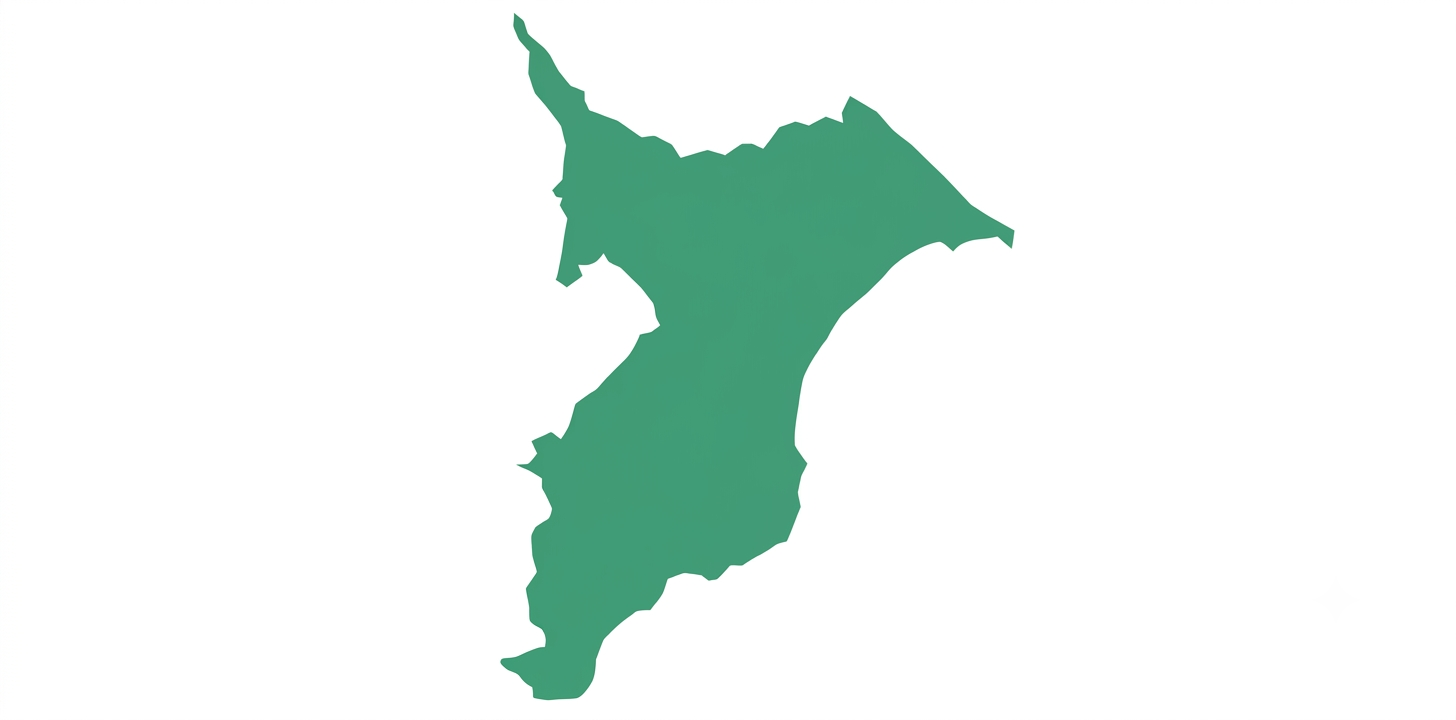
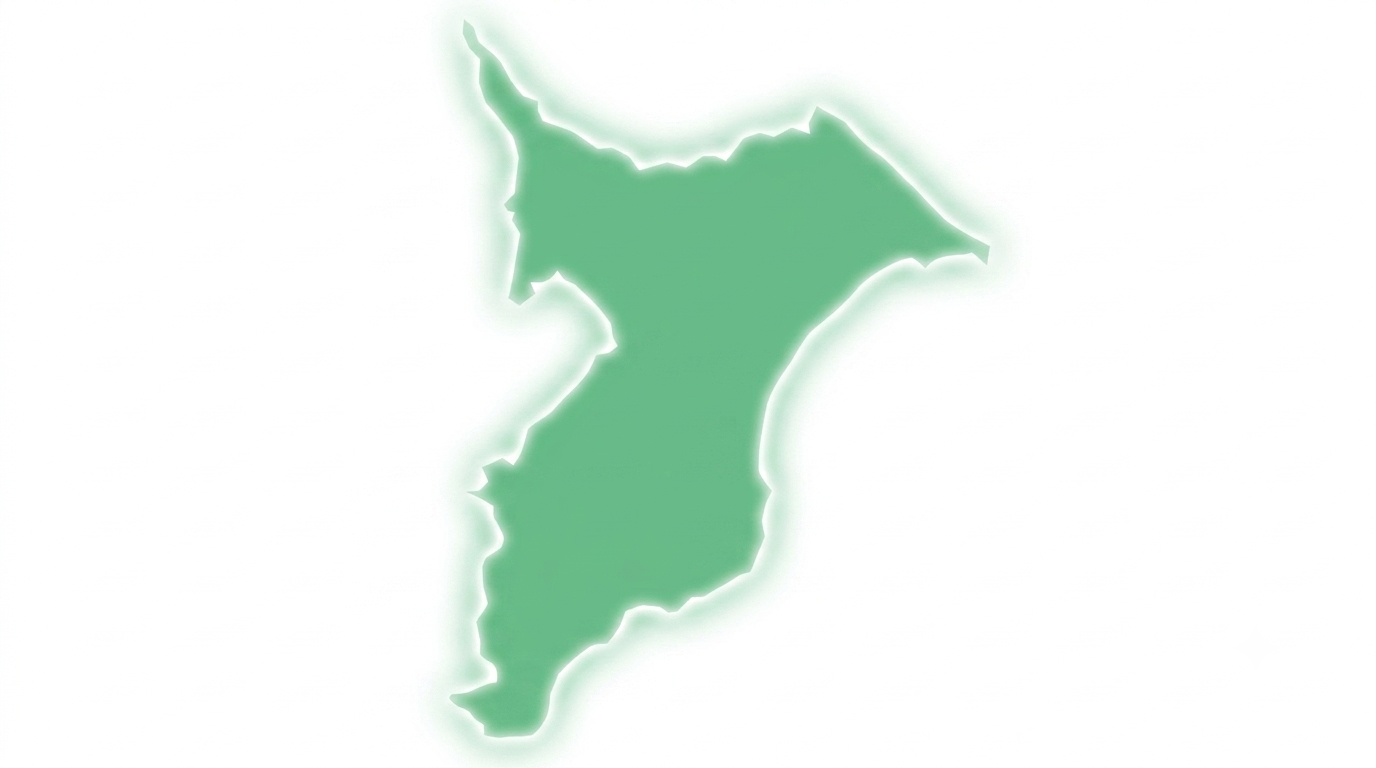
Add files via upload

Changed region(s): [[0.3125, 0.0306, 0.7188, 1.0]]

diff --git a/index.html b/index.html
@@ -61,7 +61,7 @@ html.snap footer{scroll-snap-align:end;}
 #sec-mitsumori{background:url('egao.jpg') center/cover no-repeat;}
 #sec-kaisha{background:url('syuugou.jpg') center/cover no-repeat;}
 #sec-jirei{background:#fff url('chiba.jpg') center/cover no-repeat;}
-#sec-kaisha{justify-content:flex-end;padding-top:130px;padding-bottom:28px;}
+#sec-kaisha{justify-content:flex-end;padding-top:130px;padding-bottom:85px;}
 #sec-kaisha .section-title{margin-top:0;}
 #sec-kaisha .section-sub{margin-bottom:14px;}
 #sec-kaisha .promise-row{margin:4px 0 14px;}
@@ -93,8 +93,8 @@ html.snap footer{scroll-snap-align:end;}
 .hero-overlay{display:none;}
 .hero-content{position:relative;z-index:2;padding:40px 20px 40px clamp(24px,7vw,110px);max-width:820px;}
 .hero-catch{
-  font-size:clamp(30px,5.2vw,54px);font-weight:700;letter-spacing:.06em;line-height:1.5;color:#2f8464;
-  text-shadow:0 1px 4px #fff,0 2px 8px #fff,0 0 16px #fff,0 0 30px rgba(255,255,255,.95),0 0 52px rgba(255,255,255,.85);
+  font-size:clamp(30px,5.2vw,54px);font-weight:700;letter-spacing:.06em;line-height:1.5;color:#fff;
+  text-shadow:0 1px 4px rgba(24,70,54,.95),0 2px 8px rgba(24,70,54,.9),0 0 16px rgba(24,70,54,.85),0 0 30px rgba(24,70,54,.7),0 0 52px rgba(24,70,54,.55);
 }
 .hero-lead{margin-top:18px;font-size:clamp(14px,1.8vw,17px);text-shadow:0 1px 4px rgba(24,70,54,.95),0 1px 8px rgba(24,70,54,.9),0 0 16px rgba(24,70,54,.85),0 0 28px rgba(24,70,54,.7);}
 .hero-badges{margin-top:26px;display:flex;gap:12px;justify-content:center;flex-wrap:wrap;}
@@ -200,7 +200,7 @@ html.snap footer{scroll-snap-align:end;}
 .reserve-submit:hover{background:var(--accent-dark);}
 
 /* ===== 施工事例 ===== */
-.count-banner{background:linear-gradient(135deg,var(--navy),var(--navy-light));border-radius:24px;color:#fff;text-align:center;padding:36px 20px;margin:24px 0 40px;box-shadow:var(--shadow);}
+.count-banner{background:linear-gradient(135deg,var(--navy),var(--navy-light));border-radius:24px;color:#fff;text-align:center;padding:36px 20px;margin:24px 0 40px;box-shadow:0 0 26px rgba(255,255,255,.9),0 0 50px rgba(255,255,255,.55),0 10px 30px rgba(47,132,100,.25);}
 .count-banner .num{font-size:52px;font-weight:800;letter-spacing:.02em;}
 .count-banner .num small{font-size:20px;font-weight:600;margin-left:4px;}
 .count-banner .cap{font-size:13px;opacity:.85;}
@@ -474,7 +474,6 @@ footer .f-aimitsu{display:inline-block;background:rgba(255,255,255,.12);border-r
           <svg viewBox="0 0 24 24"><path fill="#fff" d="M13.5 21v-7h2.4l.4-2.8h-2.8V9.4c0-.8.3-1.4 1.5-1.4h1.4V5.5c-.6-.1-1.4-.2-2.2-.2-2.2 0-3.7 1.3-3.7 3.8v2.1H8v2.8h2.5v7h3z"/></svg>
         </a>
       </div>
-      <button class="privacy-link" style="margin-bottom:0;" onclick="showPage('privacy')">プライバシーポリシー</button>
     </div>
   </section>
 </div>
@@ -691,7 +690,8 @@ footer .f-aimitsu{display:inline-block;background:rgba(255,255,255,.12);border-r
 
 <footer>
   <span class="f-aimitsu">📋 相見積もりOK|他社様のお見積もりと、じっくり比べてください。</span><br>
-  © 2026 ASAHI TOSO Co.,Ltd. 千葉県旭市あさひ台1-2-3|0120-XXX-XXX
+  © 2026 ASAHI TOSO Co.,Ltd. 千葉県旭市あさひ台1-2-3|0120-XXX-XXX<br>
+  <button class="privacy-link" style="margin:8px auto 0;" onclick="showPage('privacy')">プライバシーポリシー</button>
 </footer>
 
 <div class="toast" id="toast"></div>
@@ -722,17 +722,18 @@ function showPage(id){
   document.querySelector('.global-back').style.display = (id==='home') ? 'none' : '';
   window.scrollTo({top:0});
 }
+let _homeSec='hero';
 window.addEventListener('scroll',function(){
   if(!document.getElementById('page-home').classList.contains('active')) return;
   const y=window.scrollY+window.innerHeight*0.45;
   let cur='hero';
   ['sec-mitsumori','sec-jirei','sec-kaisha'].forEach(k=>{const el=document.getElementById(k);if(el&&el.offsetTop<=y)cur=k;});
+  _homeSec=cur;
   setNavSec(cur);
 },{passive:true});
 window.addEventListener('resize',function(){const a=document.querySelector('nav .nav-link.active');if(a)setNavSec(a.dataset.sec);});
 window.addEventListener('load',function(){const a=document.querySelector('nav .nav-link.active');if(a)setNavSec(a.dataset.sec);});
-let _backHomeToSec=false;
-function goBack(){ _backHomeToSec=true; setTimeout(function(){_backHomeToSec=false;},1000); history.back(); }
+function goBack(){ history.back(); }
 
 const yen = n => '¥' + n.toLocaleString('ja-JP');
 
@@ -1027,9 +1028,8 @@ window.addEventListener('hashchange',function(){
   const id=(location.hash||'#home').slice(1);
   if(document.getElementById('page-'+id)){
     _showPageNav(id);
-    if(id==='home'&&_backHomeToSec){
-      _backHomeToSec=false;
-      setTimeout(function(){const el=document.getElementById('sec-mitsumori');if(el)el.scrollIntoView({behavior:'smooth'});},100);
+    if(id==='home'&&_homeSec!=='hero'){
+      setTimeout(function(){const el=document.getElementById(_homeSec);if(el)el.scrollIntoView();},80);
     }
   }
 });
